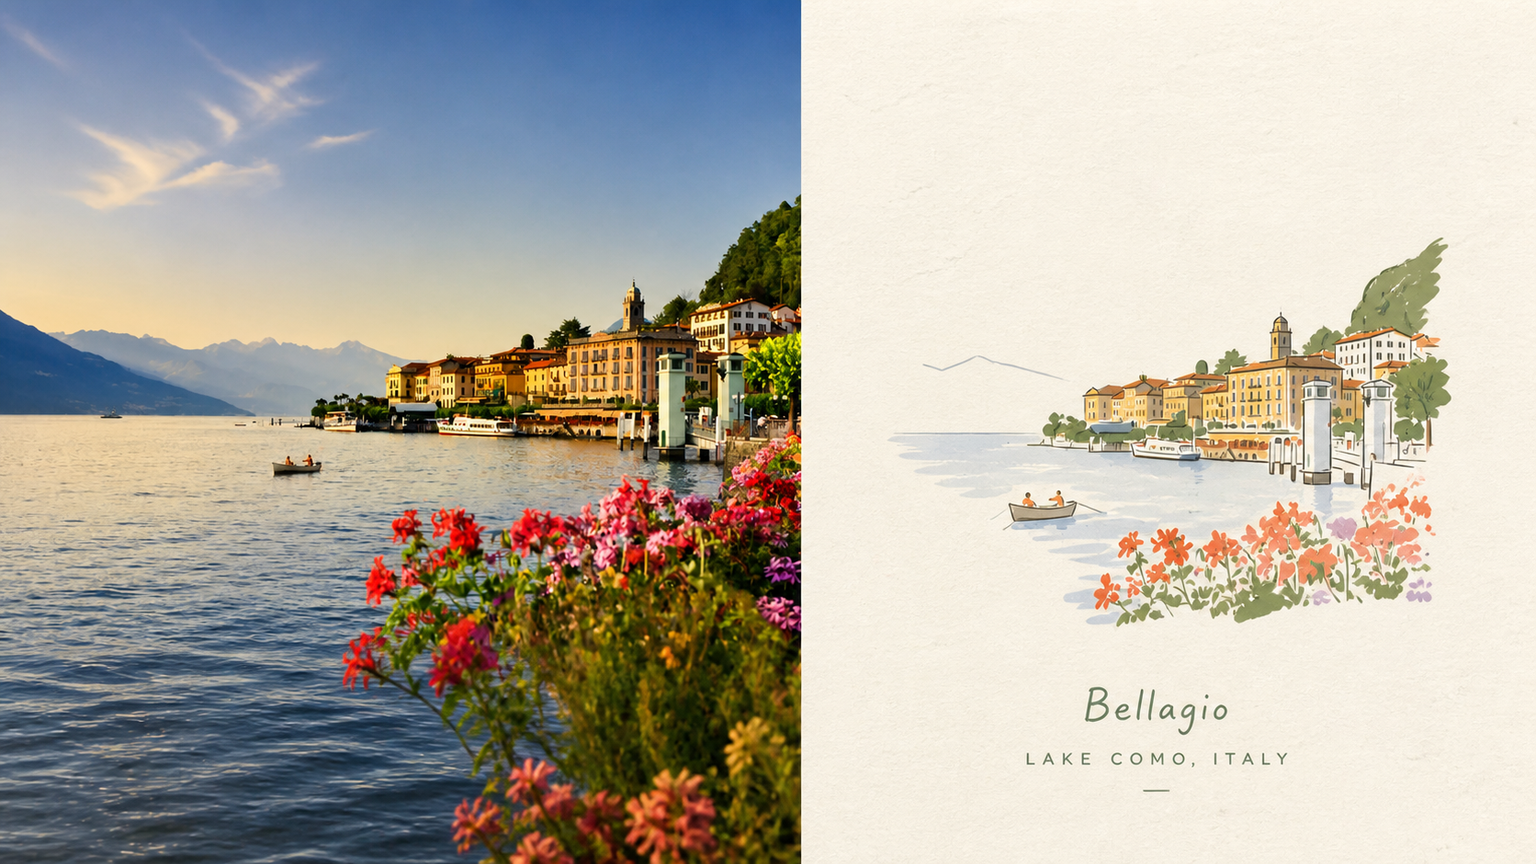
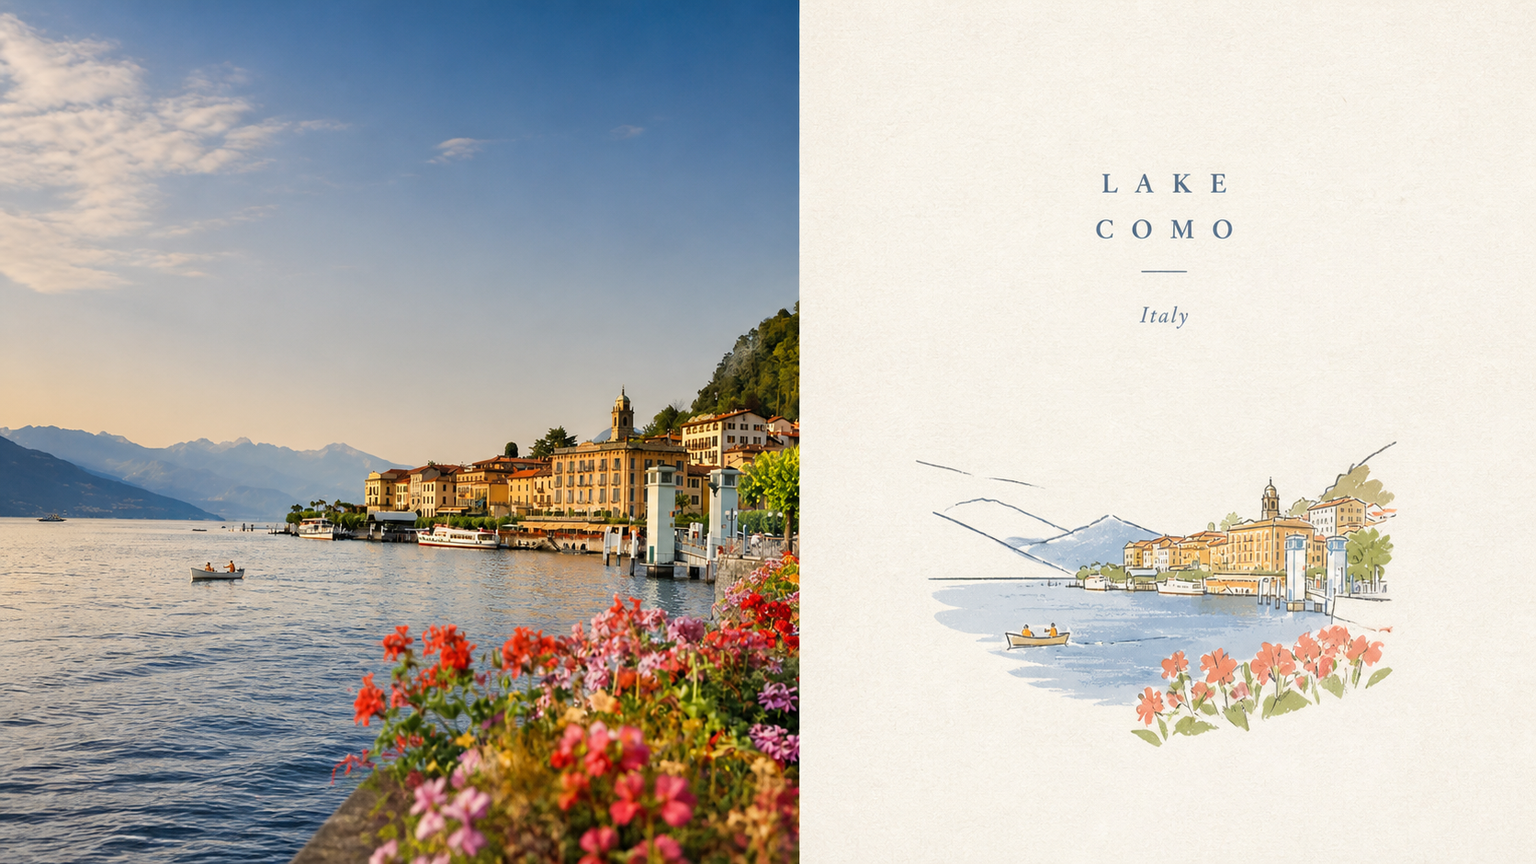
docs: add four 16:9 left-right samples

diff --git a/README.en.md b/README.en.md
@@ -16,6 +16,28 @@
 
 </div>
 
+<!-- xxd-human-intro:start -->
+## The short, honest version
+
+Ever had a photo you loved turn into generic “AI design”? The subject survives, but the relationship, mood, and tiny details that made the photo yours disappear.
+
+That frustration is why I made **Panel 006**. It does not press a template onto your image. It first works out what must not be lost, then translates it into **Reduce a photograph to a tiny recognisable subject on a vast tactile paper cover**.
+
+### Understand it in 30 seconds
+
+- **Give it:** one photo, a folder of images, or a rough idea.
+- **It does:** preserves recognizable people, objects, actions, and relationships, then redesigns them in this Panel’s own visual language.
+- **You get:** ready-to-use PNGs—comparison layouts, design-only artwork, multiple ratios, or a wallpaper set.
+
+### The easiest way to try it
+
+You do not need to study every option first. Give your Agent an image and say:
+
+> Use XXD Panel 006 on this image and recommend the best layout and size first.
+
+Check the samples below if you want to feel out the aesthetic. If you are ready, jump to [Get started](#get-started). The full modes, sizes, and parameters are tucked into an expandable reference for later.
+<!-- xxd-human-intro:end -->
+
 ## Samples · From X
 
 <table>
@@ -29,6 +51,11 @@
   </tr>
   <tr>
     <td colspan="2"><img src="./assets/examples/sample-05.png" alt="XXD Panel 006 Sample 5"></td>
+  </tr>
+  <tr>
+    <td width="33%"><img src="./assets/examples/sample-06.png" alt="XXD Panel 006 Sample 6"></td>
+    <td width="33%"><img src="./assets/examples/sample-07.png" alt="XXD Panel 006 Sample 7"></td>
+    <td width="33%"><img src="./assets/examples/sample-08.png" alt="XXD Panel 006 Sample 8"></td>
   </tr>
 </table>
 
@@ -86,6 +113,9 @@ If an unrelated photograph could replace the source without materially changing 
 - **Four colours maximum:** beyond paper, no more than four source-derived principal colours appear, each with an identity or structural role.
 - **Minimal setting:** at most a few short lines or one restrained colour plane; never reconstruct the full scene or fill the paper.
 - **Book-cover type:** one concise title and at most two small lines counterbalance the vignette through whitespace.
+
+<details>
+<summary><strong>Full capabilities and parameters (open when needed)</strong></summary>
 
 ## The original brief is authoritative
 
@@ -228,6 +258,8 @@ GPT Image 2 is the default first choice. It keeps this project's established wor
 Seedance 5.0 Pro, Nano Banana Pro (Gemini Image Pro), Nano Banana 2 (Gemini Image Flash), or another compatible bitmap model may also be used when it is actually available through the current tools or configured routes and can satisfy source fidelity, whole-canvas ratio, target-language text, and linked-wallpaper multi-reference requirements. An alternative changes only the generation route; it must not change modes, canvas, copy, locale, wallpaper relationship, or the complete-canvas-first strategy.
 
 If no suitable route is available, the Skill asks the user to enable an image-generation tool or provide an API key. User-provided credentials may be used for the current task without being echoed, displayed, logged, or exposed. They are not persisted, and provider, account, billing, or global route configuration is not modified, unless the user explicitly requests that configuration change.
+
+</details>
 
 ## Get started
 

diff --git a/assets/examples/README.md b/assets/examples/README.md
@@ -11,5 +11,8 @@
   - `sample-03.jpg`
   - `sample-04.jpg`
   - `sample-05.png` — generated 16:9 left-right English-copy sample from the Chenxiang poster batch
+  - `sample-06.png` — generated 16:9 left-right English-copy sample from the Chenxiang poster batch
+  - `sample-07.png` — generated 16:9 left-right English-copy sample from the Chenxiang poster batch
+  - `sample-08.png` — generated 16:9 left-right English-copy sample from the Chenxiang poster batch
 
 The repository READMEs display these local copies; the original four samples link back to their X post, while sample-05 is a newly generated batch sample. The samples demonstrate the style's aesthetic motive and range only; they never become generation references, source material, fixed subjects, palettes, composition, copy, or default canvas sizes.
